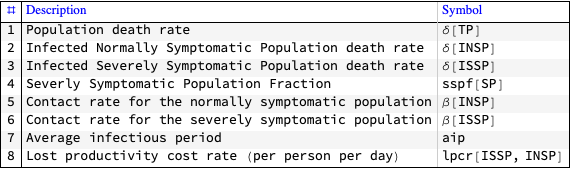
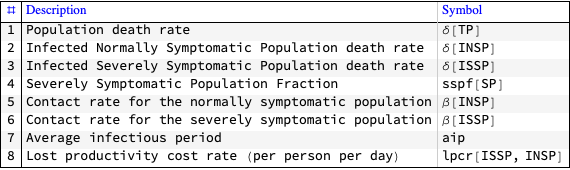
Spell-check fix.

Changed region(s): [[0.1193, 0.4412, 0.5965, 0.5294]]

diff --git a/Projects/Coronavirus-propagation-dynamics/Documents/Coronavirus-propagation-SIR-model.md b/Projects/Coronavirus-propagation-dynamics/Documents/Coronavirus-propagation-SIR-model.md
@@ -92,7 +92,7 @@ aRates = <|
    "Population death rate" -> 𝛿[TP],
    "Infected Normally Symptomatic Population death rate" -> 𝛿[INSP],
    "Infected Severely Symptomatic Population death rate" -> 𝛿[ISSP],
-   "Severly Symptomatic Population Fraction" -> sspf[SP],
+   "Severely Symptomatic Population Fraction" -> sspf[SP],
    "Contact rate for the normally symptomatic population" -> 𝛽[INSP],
    "Contact rate for the severely symptomatic population" -> 𝛽[ISSP],
    "Average infectious period" -> aip,
